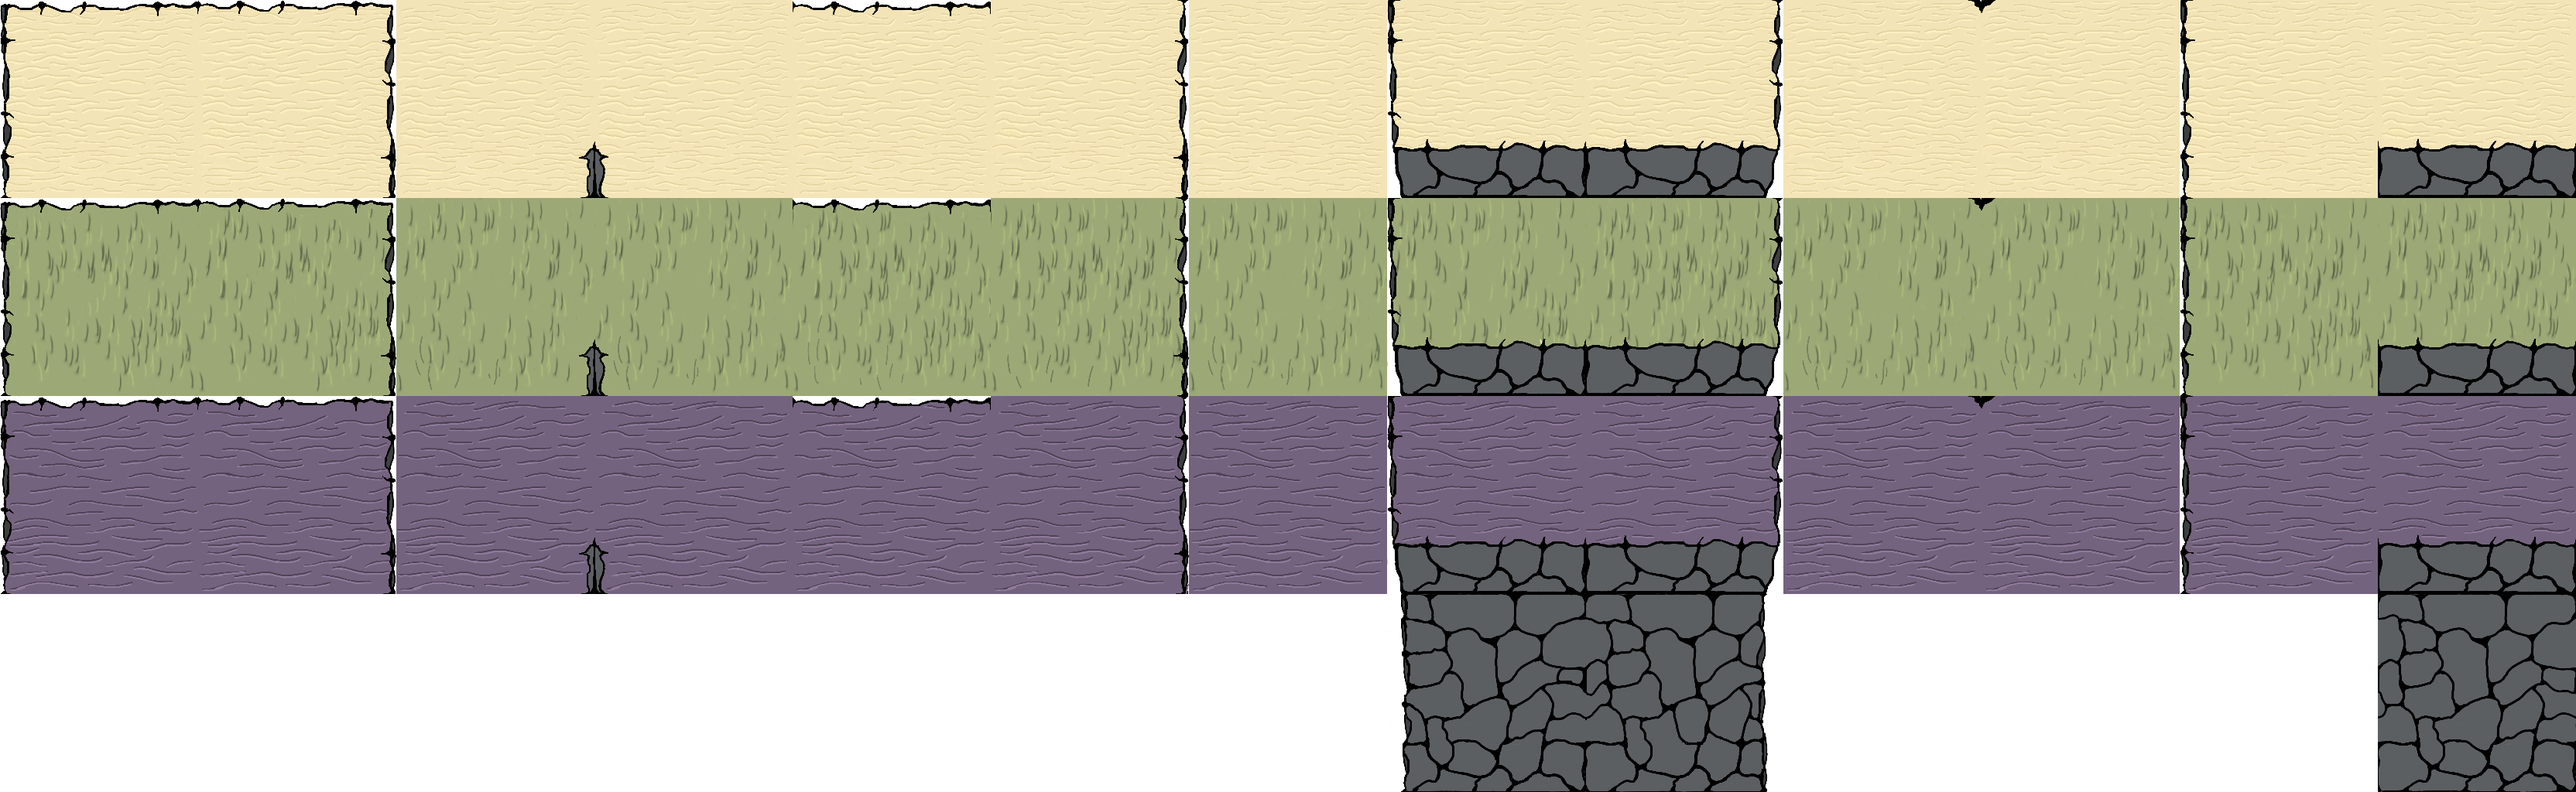
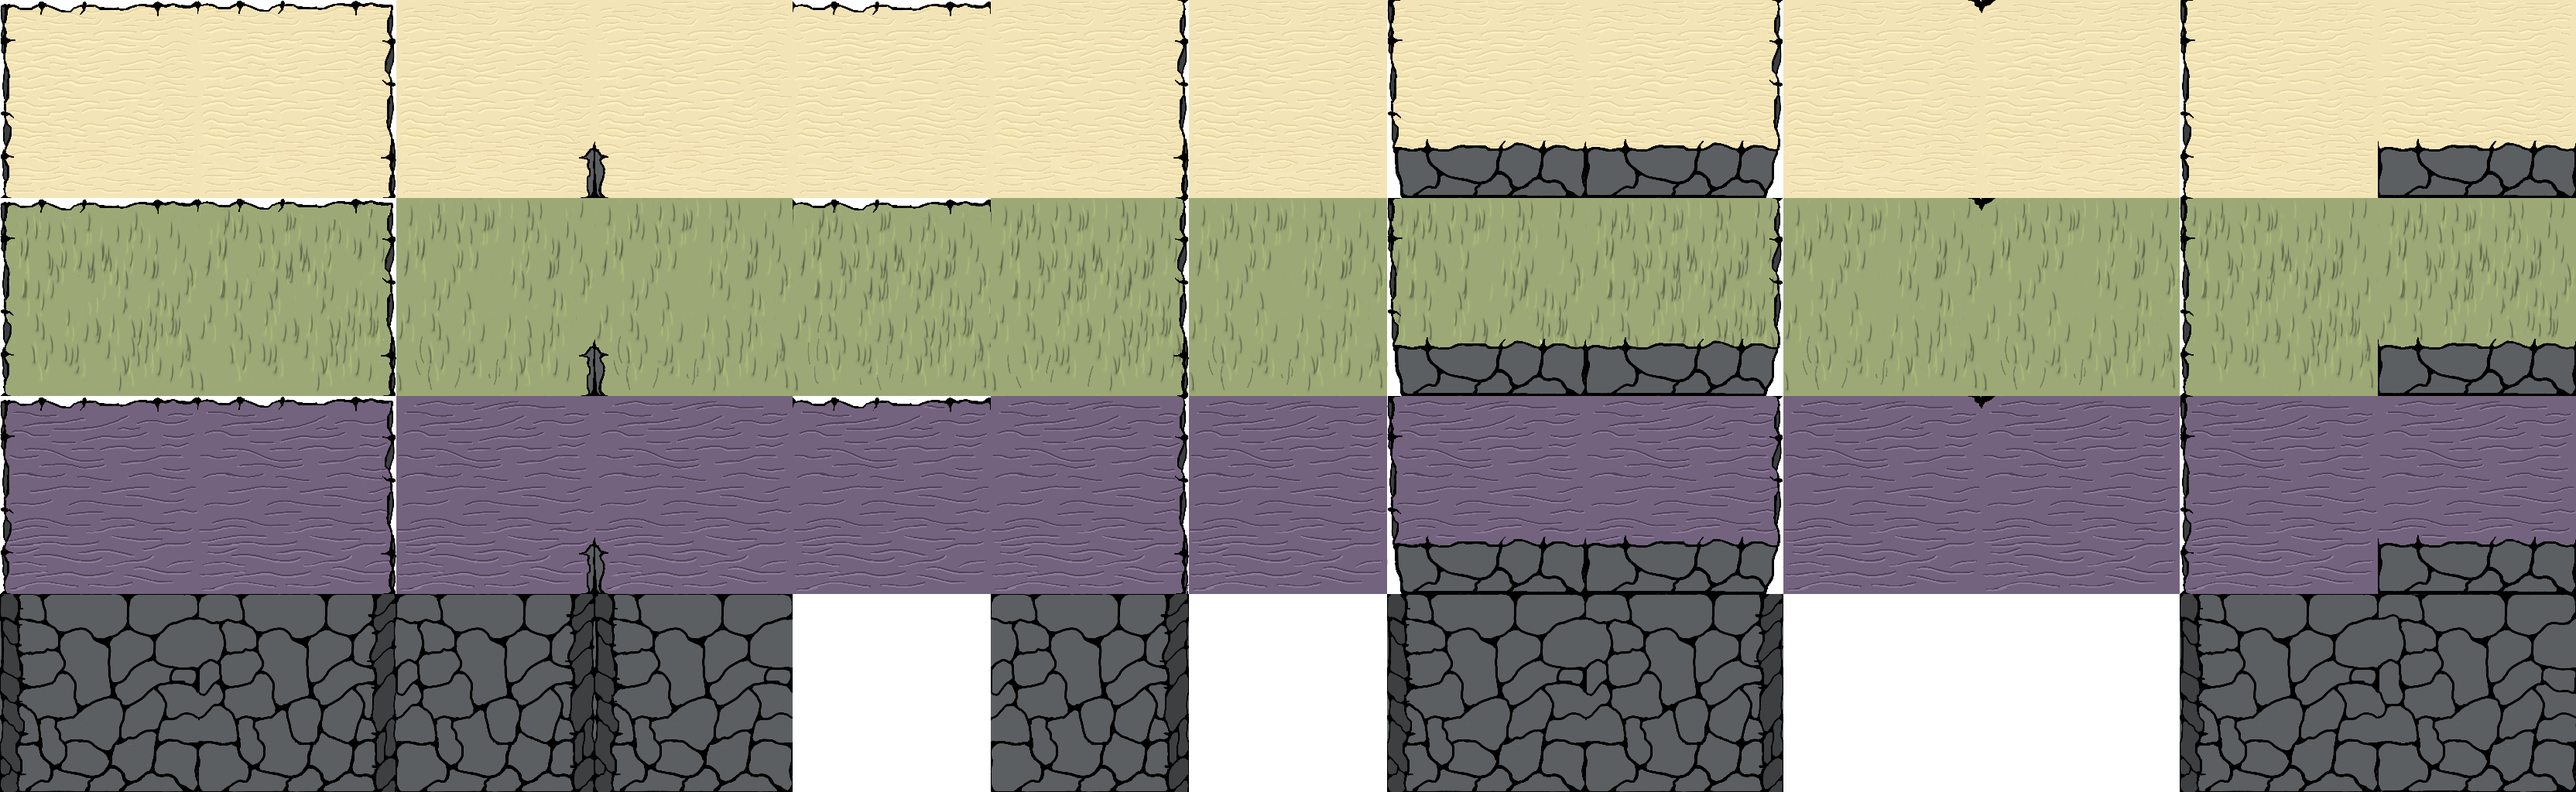
terrain varies by height and color
- also removed unused assets

diff --git a/TechnicalPrototype/core/src/edu/cornell/gdiac/raftoftheseus/model/LevelModel.java b/TechnicalPrototype/core/src/edu/cornell/gdiac/raftoftheseus/model/LevelModel.java
@@ -868,12 +868,14 @@ public class LevelModel {
     }
 
     private void gatherTerrainAssets(Texture terrainTexture) {
-        terrain = new TextureRegion[4][TERRAIN_TYPES];
+        terrain = new TextureRegion[3][TERRAIN_TYPES];
         int width = terrainTexture.getWidth() / TERRAIN_TYPES;
-        int height = terrainTexture.getHeight() / 4;
-        for(int row = 0; row < 4; row ++) {
+        int height = width;
+        for(int row = 0; row < 3; row ++) {
+            boolean high_terrain = (row == 2);
             for(int col = 0; col < TERRAIN_TYPES; col++){
-                terrain[row][col] = new TextureRegion(terrainTexture, width * col + 1, height * row + 1, width - 2, height - 2);
+                terrain[row][col] = new TextureRegion(terrainTexture, width * col + 1, height * row + 1,
+                        width - 2, height*(high_terrain ? 2 : 1) - 2);
             }
         }
     }
